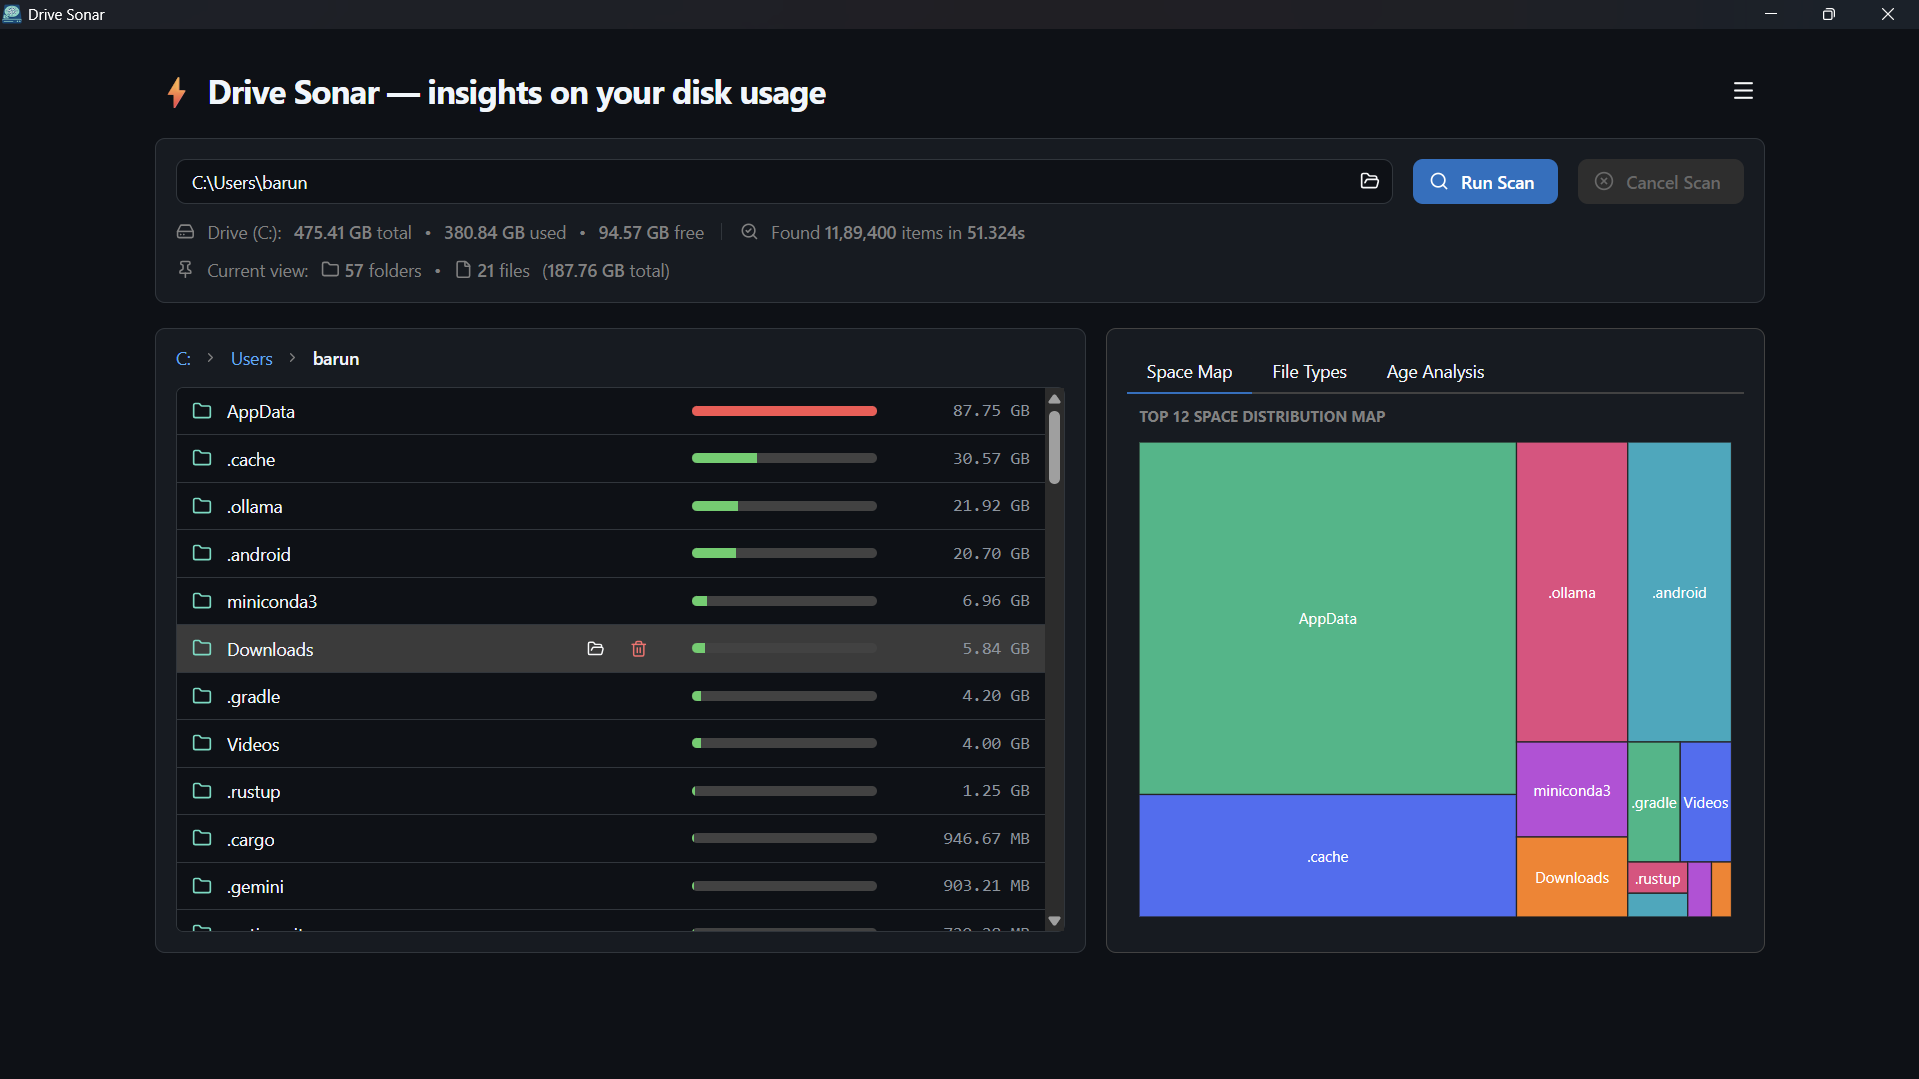
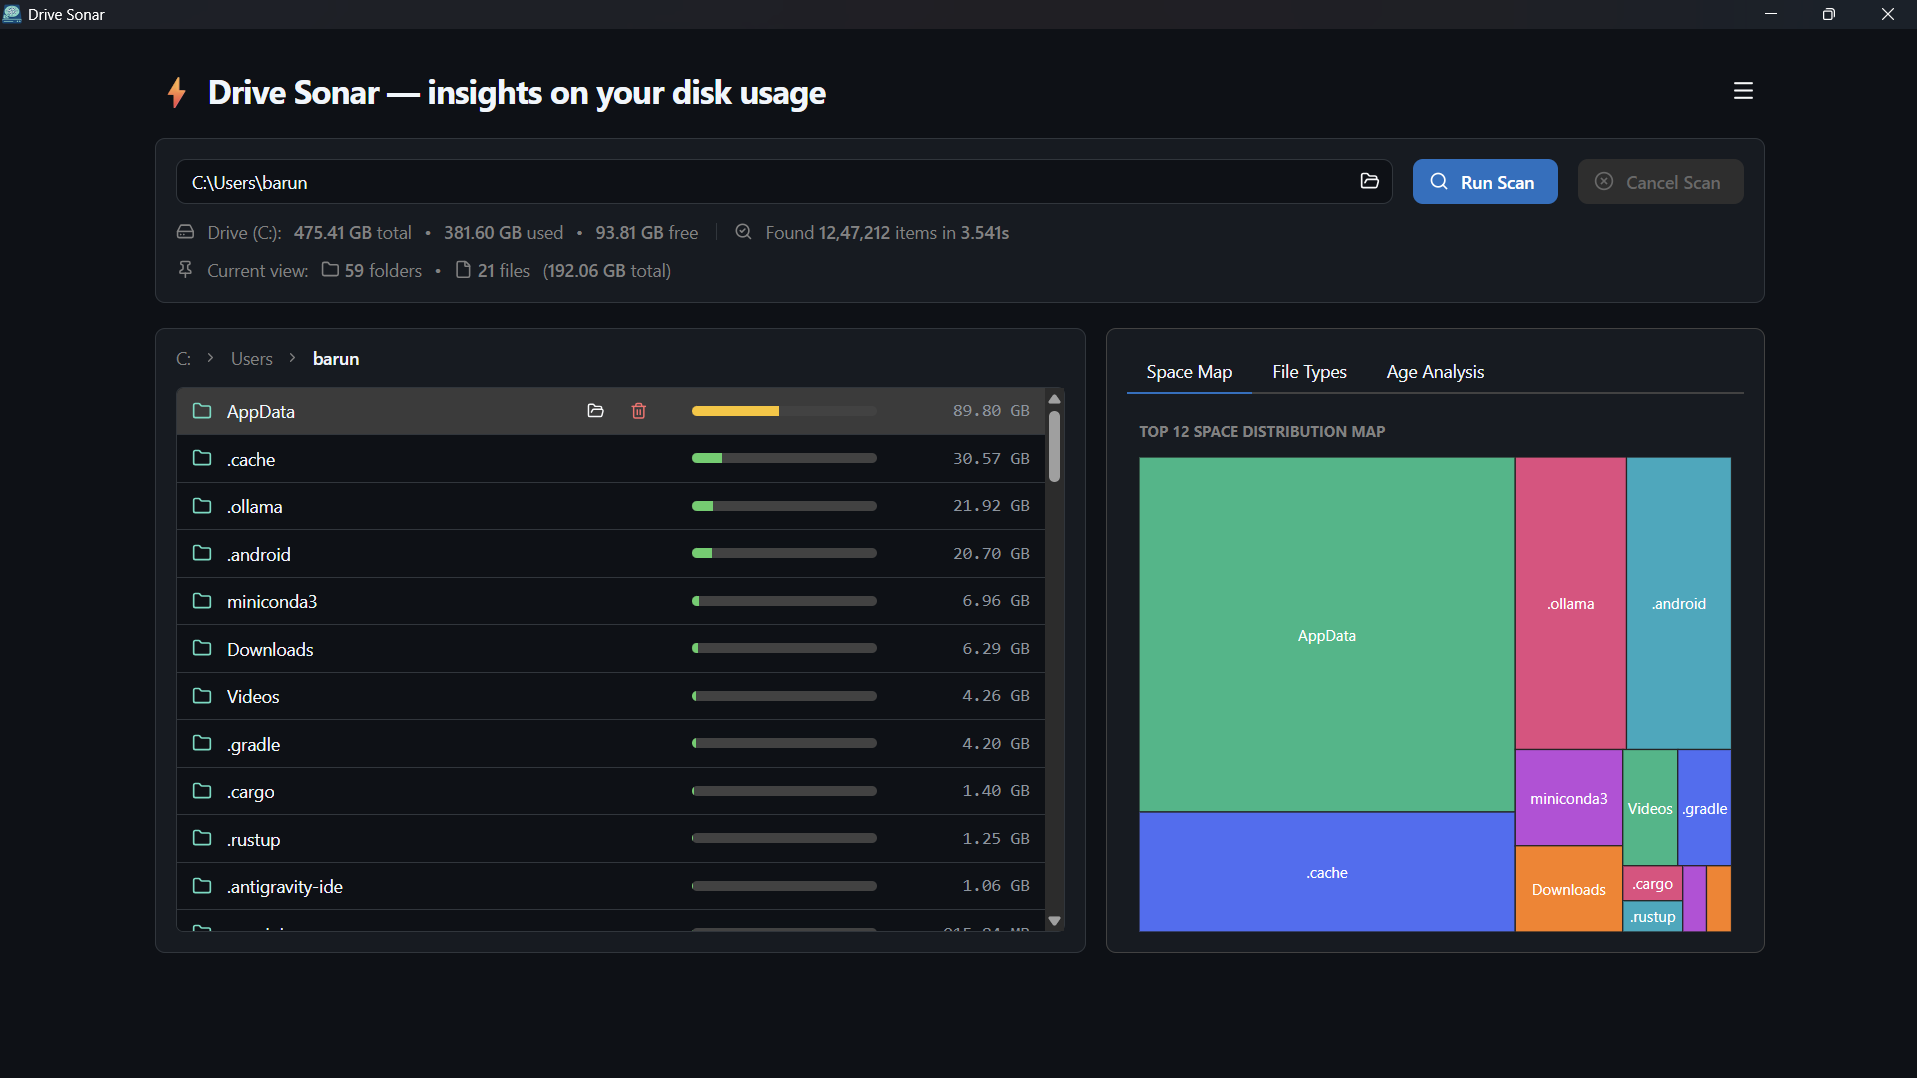
Add benchmarks to the project description and update screenshot

diff --git a/README.md b/README.md
@@ -4,11 +4,11 @@
   <img src="public/drive_sonar_base.png" width="256" alt="Drive Sonar Logo" />
 </p>
 
-Drive Sonar is a fast, lightweight desktop disk usage explorer and analyzer built with Tauri v2, Rust, React, and TypeScript.
+[Drive Sonar](https://drivesonar.baruns.workers.dev/) is a fast, lightweight desktop disk usage explorer and analyzer built with Tauri v2, Rust, React, and TypeScript.
 
 Drive Sonar is inspired by the simplicity of `ncdu`. Drive Sonar offers different visualizations to help you gain a better idea of your disk usage.
 
-Drive Sonar runs entirely in **user mode**—no admin mode or elevated privilege is required to scan even the most protected corners of your disk. It's also fully **open source**, so you can see exactly what it's doing and build it yourself if you'd rather not trust a binary.
+[Drive Sonar](https://drivesonar.baruns.workers.dev/) runs entirely in **user mode**—no admin mode or elevated privilege is required to scan even the most protected corners of your disk. It's also fully **open source**, so you can see exactly what it's doing and build it yourself if you'd rather not trust a binary.
 
 ## ⚡ Features
 
@@ -25,6 +25,27 @@ Drive Sonar runs entirely in **user mode**—no admin mode or elevated privilege
 <p align="center">
   <img src="public/screenshot.png" width="896" alt="Drive Sonar screenshot" />
 </p>
+
+
+## Disk Scanner Performance Comparison
+
+| Metric | Drive Sonar | WinDirStat | WizTree |
+|---|---:|---:|---:|
+| Version tested | 0.6.0 | 2.8.0 | 4.3.1 |
+| License | Apache 2.0 | GPL v2 | Proprietary |
+| Runs in user mode (no admin required) | ✅ | ✅ | ❌[^1] |
+| Installed size [MB] | **5.7** | 7.1 | 20.0 |
+| Peak memory usage (median)[^2] [MB] | **108.7** | 239.6 | 635.2 |
+| Warm scan time (median)[^3] [s] | **3.3** | 9.1 | 6.5 |
+| Cold scan time (single run)[^4] [s] | **10.6** | 22.9 | 17.2 |
+
+[^1]: **Admin requirement:** WizTree requires administrator privileges to read the NTFS Master File Table directly for its full-speed mode; without elevation it falls back to a slower standard directory scan. WinDirStat can be optionally run with admin privileges as well.
+
+[^2]: **Memory usage:** Median of 3 independent runs, same scan location.
+
+[^3]: **Warm scan:** Median of 5 independent runs of the same folder, each app already opened once beforehand (warm file-system cache) — the scenario most users encounter when re-scanning (e.g., after deleting files). Because all three tools benefit equally from the OS file-system cache under this condition, disk I/O latency is minimized for each of them alike — this measurement isolates each application's own processing efficiency (directory traversal, tree construction, size aggregation) rather than raw disk speed.
+
+[^4]: **Cold scan:** Median of 3 independent runs per app, each following a full system restart. Disk activity was confirmed quiet via Resource Monitor before every run (queue length ~0, active time 1–3%, throughput under a few hundred KB/sec) to rule out background OS contention (updates, indexing, sync clients) as a confound. WizTree was run with administrator elevation (its intended mode, enabling direct MFT reads); WinDirStat and Drive Sonar were both run in standard user mode. WinDirStat does not report scan duration natively and was timed manually with a stopwatch. Item count varied slightly across runs (~1.2M items). Note: if background OS activity (updates, indexing, antivirus scans) is active during a scan, cold-scan times can spike well above these figures — we observed up to ~50s in earlier unconstrained trials — so results are only comparable when disk activity is confirmed idle beforehand.
 
 
 ## 🤔 Why Drive Sonar?
